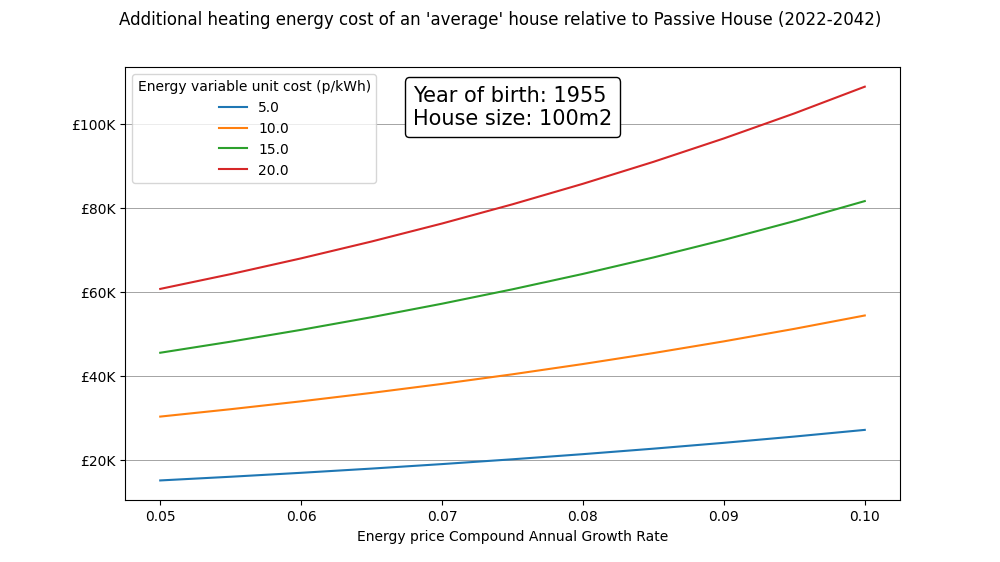
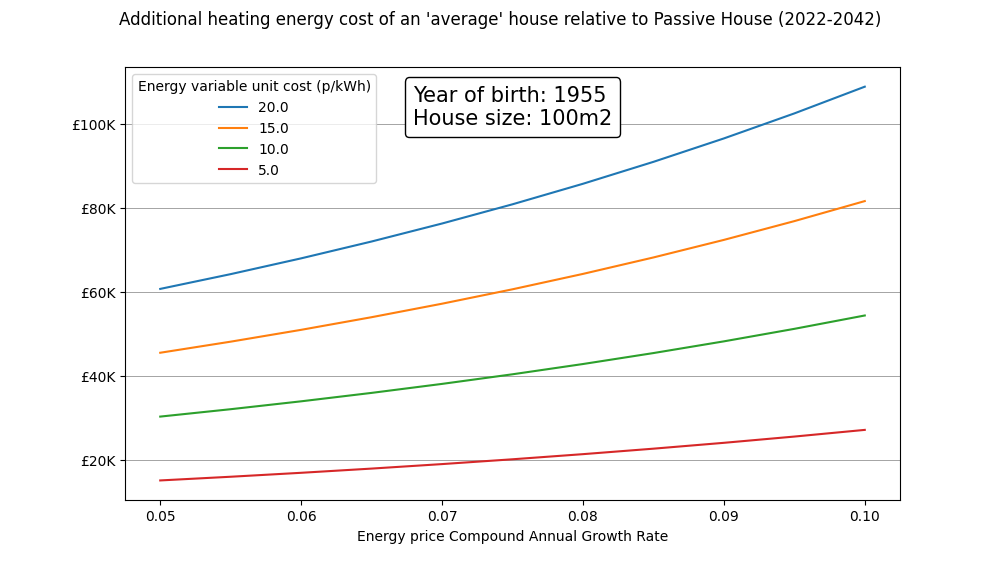
Reverse legend for clarity

diff --git a/pension_calculator/graph.py b/pension_calculator/graph.py
@@ -34,7 +34,7 @@ def compute_energy_prices():
     price_min = config.get("sensitivities").get("price_min")
     price_max = config.get("sensitivities").get("price_max")
     prices = np.arange(price_min, price_max, 0.05)
-    return np.round(prices, 3)
+    return np.round(prices, 3)[::-1]
 
 
 def compute_growth_rates():
